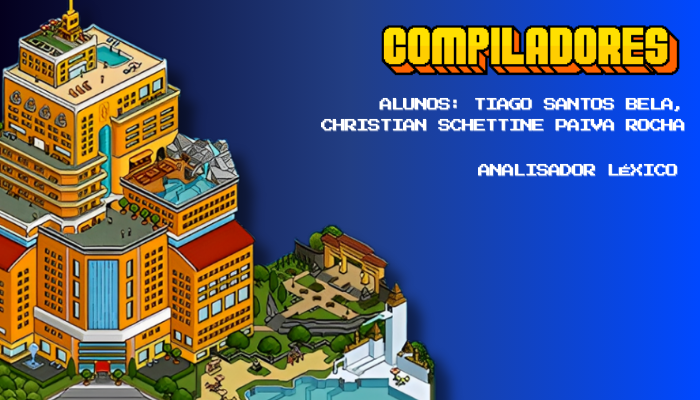
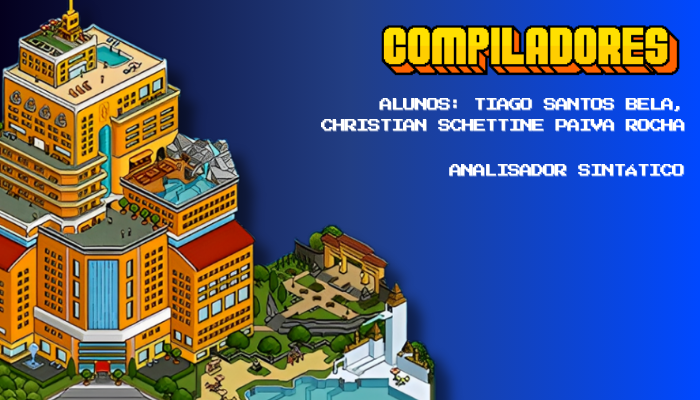
novas mudanças no código fonte do compilador sintático

Changed region(s): [[0.63, 0.39, 0.99, 0.45], [0.63, 0.3, 0.69, 0.33]]

diff --git a/analisador-sintatico/model/Analise.java b/analisador-sintatico/model/Analise.java
@@ -1,30 +1,34 @@
 /* ***************************************************************
 * Autor............: TIAGO SANTOS BELA E CHRISTIAN SCHETTINE PAIVA ROCHA
 * Matricula........: 202220722
-* Inicio...........: 27.08.2025
-* Ultima alteracao.: 18.09.2025
+* Inicio...........: 12.11.2025
+* Ultima alteracao.: xx.xx.2025
 * Nome.............: Analise
-* Funcao...........: possui o aparato nececessário para retornar os tokens
-*  observados na fase de análise léxica
+* Funcao...........: possui o aparato nececessário para receber os tokens
+*   classificados na fase léxica da compilação e analisar se estão arranjados
+*   seguindo os critérios estabelecidos pela análise sintática
 *************************************************************** */
 
 package model;
 
 import java.util.List;
 import util.AnalisadorLexico;
+import util.AnalisadorSintatico;
 
 public class Analise {
   private AnalisadorLexico analisadorLexico;
+  private AnalisadorSintatico analisadorSintatico;
 
   public Analise(String conteudo) {
     analisadorLexico = new AnalisadorLexico(conteudo);
+    analisadorSintatico = new AnalisadorSintatico();  
   }
 
   /*
    * ***************************************************************
    * Metodo: getLexamas
    * Funcao: listar todos os lexemas com seus devidos tokens observados
-   *   na fase da análise léxica
+   * na fase da análise léxica
    * Parametros: vazio
    * Retorno: String
    */
@@ -35,9 +39,11 @@ public class Analise {
     // analisa o maior token encontrado, para ajuste da tabela final
     String maiorLexema = maiorLexema(tokens);
 
-    // laço que adiciona os tokens em uma lista de toksn analisados com o lexema e o seu devido tipo
+    // laço que adiciona os tokens em uma lista de toksn analisados com o lexema e o
+    // seu devido tipo
     for (Token token : tokens) {
-      listaLexemas.append(String.format("%-" + this.calcularEspaco(maiorLexema, token) + "s %s%n", token.getLexema(), token.getTipo()));
+      listaLexemas.append(
+          String.format("%-" + this.calcularEspaco(maiorLexema, token) + "s %s%n", token.getLexema(), token.getTipo()));
     }
 
     return listaLexemas.toString();
@@ -72,12 +78,12 @@ public class Analise {
    * ***************************************************************
    * Metodo: calcularEspaco
    * Funcao: calcula a distancia do token em questão para o maior token
-   *   da lista de tokens gerados em relação a tamanho, isso é para a tabela
-   *   final
+   * da lista de tokens gerados em relação a tamanho, isso é para a tabela
+   * final
    * Parametros: vazio
    * Retorno: int
    */
-  private int calcularEspaco(String maiorLexema, Token token){
+  private int calcularEspaco(String maiorLexema, Token token) {
     int espacos = maiorLexema.length() - token.getLexema().length();
     return espacos + 20;
   }

diff --git a/analisador-sintatico/util/TipoErro.java b/analisador-sintatico/util/TipoErro.java
@@ -1,18 +1,45 @@
 /* ***************************************************************
 * Autor............: TIAGO SANTOS BELA E CHRISTIAN SCHETTINE PAIVA ROCHA
 * Matricula........: 202220722
-* Inicio...........: 27.08.2025
-* Ultima alteracao.: 18.09.2025
+* Inicio...........: 12.11.2025
+* Ultima alteracao.: xx.xx.2025
 * Nome.............: TipoErro
 * Funcao...........: possuir todos os possíveis erros da linguagem
-*   mini-pascal
+*   Sigma
 *************************************************************** */
 
 package util;
 
 public enum TipoErro {
+  // erros léxicos
   CARACTERE_INVALIDO,
   STRING_NAO_FECHADA,
   COMENTARIO_NAO_FECHADO,
-  NUMERO_MAL_FORMADO
+  NUMERO_MAL_FORMADO,
+
+  // Estrutura do programa
+  PROGRAMA_NAO_INICIADO_CORRETAMENTE,
+  PONTO_E_VIRGULA_APOS_IDENTIFICADOR_AUSENTE,
+  BEGIN_NAO_ENCONTRADO,
+  END_NAO_ENCONTRADO,
+  PONTO_FINAL_AUSENTE,
+
+  // Declarações
+  DOIS_PONTOS_AUSENTE,
+  PONTO_E_VIRGULA_APOS_TIPO_AUSENTE,
+  IDENTIFICADOR_ESPERADO,
+  IDENTIFICADOR_APOS_VIRGULA_AUSENTE,
+  TIPO_INVALIDO,
+
+  // Expressões e comandos
+  ATRIBUICAO_INVALIDA,
+  COMANDO_INVALIDO,
+  EXPRESSAO_ESPERADA,
+
+  // Estruturas de controle
+  IF_ESPERADO,
+  THEN_ESPERADO,
+  OPERADOR_RELACIONAL_ESPERADO,
+  WHILE_ESPERADO,
+  DO_ESPERADO
 }

diff --git a/analisador-sintatico/controller/TelaInicialController.java b/analisador-sintatico/controller/TelaInicialController.java
@@ -1,7 +1,7 @@
 /* ***************************************************************
-* Autor............: Tiago Santos Bela
+* Autor............: TIAGO SANTOS BELA E CHRISTIAN SCHETTINE PAIVA ROCHA
 * Matricula........: 202220722
-* Inicio...........: 27.08.2025
+* Inicio...........: 12.11.2025
 * Ultima alteracao.: xx.xx.2025
 * Nome.............: tela inicial controller
 * Funcao...........: Controla os elementos gráficos do JavaFX da 
@@ -79,7 +79,7 @@ public class TelaInicialController {
 
     // cria o novo palco da aplicação
     Stage palcoPrincipal = new Stage();
-    palcoPrincipal.setTitle("Trabalho 01 - Analisador Léxico");
+    palcoPrincipal.setTitle("Trabalho 02 - Analisador Sintático");
     palcoPrincipal.setResizable(false);
     palcoPrincipal.setScene(new Scene(raiz, 900, 650));
     palcoPrincipal.show();

diff --git a/analisador-sintatico/Principal.java b/analisador-sintatico/Principal.java
@@ -1,11 +1,11 @@
 /* ***************************************************************
 * Autor............: TIAGO SANTOS BELA E CHRISTIAN SCHETTINE PAIVA ROCHA
 * Matricula........: 202220722
-* Inicio...........: 27.08.2025
-* Ultima alteracao.: 18.09.2025
-* Nome.............: Analisador Léxico
+* Inicio...........: 12.11.2025
+* Ultima alteracao.: xx.xx.2025
+* Nome.............: Analisador Sintático
 * Funcao...........: Produzir um analisador sintático para a linguagem
-*   de programação sigma.
+*   de programação Sigma.
 *************************************************************** */
 
 import controller.TelaInicialController;

diff --git a/analisador-sintatico/util/TipoToken.java b/analisador-sintatico/util/TipoToken.java
@@ -1,11 +1,11 @@
 /* ***************************************************************
 * Autor............: TIAGO SANTOS BELA E CHRISTIAN SCHETTINE PAIVA ROCHA
 * Matricula........: 202220722
-* Inicio...........: 27.08.2025
-* Ultima alteracao.: 18.09.2025
+* Inicio...........: 12.11.2025
+* Ultima alteracao.: xx.xx.2025
 * Nome.............: TipoToken
 * Funcao...........: possuir todos os possíveis tokens da linguagem
-*   mini-pascal
+*   Sigma
 *************************************************************** */
 
 package util;

diff --git a/analisador-sintatico/util/AnalisadorLexico.java b/analisador-sintatico/util/AnalisadorLexico.java
@@ -1,9 +1,9 @@
 /* ***************************************************************
 * Autor............: Tiago Santos Bela
 * Matricula........: 202220722
-* Inicio...........: 27.08.2025
-* Ultima alteracao.: 18.09.2025
-* Nome.............: tela principal controller
+* Inicio...........: 12.11.2025
+* Ultima alteracao.: xx.xx.2025
+* Nome.............: analisador léxico
 * Funcao...........: Controla a lóxica central do analisador léxico
 *************************************************************** */
 

diff --git a/analisador-sintatico/util/Arquivo.java b/analisador-sintatico/util/Arquivo.java
@@ -1,8 +1,8 @@
 /* ***************************************************************
 * Autor............: TIAGO SANTOS BELA E CHRISTIAN SCHETTINE PAIVA ROCHA
 * Matricula........: 202220722
-* Inicio...........: 27.08.2025
-* Ultima alteracao.: 18.09.2025
+* Inicio...........: 12.11.2025
+* Ultima alteracao.: xx.xx.2025
 * Nome.............: Arquivo
 * Funcao...........: possui todos os métodos necessários para entrada
 *   e tratamento dos textos em .txt que serão analisados pelo analisador

diff --git a/analisador-sintatico/util/AnalisadorSintatico.java b/analisador-sintatico/util/AnalisadorSintatico.java
@@ -1,0 +1,14 @@
+/* ***************************************************************
+* Autor............: Tiago Santos Bela
+* Matricula........: 202220722
+* Inicio...........: 12.11.2025
+* Ultima alteracao.: xx.xx.2025
+* Nome.............: analisador sintático
+* Funcao...........: Controla a lóxica central do analisador sintático
+*************************************************************** */
+
+package util;
+
+public class AnalisadorSintatico {
+  
+}

diff --git a/analisador-sintatico/model/Token.java b/analisador-sintatico/model/Token.java
@@ -1,8 +1,8 @@
 /* ***************************************************************
 * Autor............: TIAGO SANTOS BELA E CHRISTIAN SCHETTINE PAIVA ROCHA
 * Matricula........: 202220722
-* Inicio...........: 27.08.2025
-* Ultima alteracao.: 18.09.2025
+* Inicio...........: 12.11.2025
+* Ultima alteracao.: xx.xx.2025
 * Nome.............: Token
 * Funcao...........: possui todos os métodos necessários para lidar
 *   com os tokens

diff --git a/analisador-sintatico/model/Erro.java b/analisador-sintatico/model/Erro.java
@@ -1,8 +1,8 @@
 /* ***************************************************************
 * Autor............: TIAGO SANTOS BELA E CHRISTIAN SCHETTINE PAIVA ROCHA
 * Matricula........: 202220722
-* Inicio...........: 27.08.2025
-* Ultima alteracao.: 18.09.2025
+* Inicio...........: 12.11.2025
+* Ultima alteracao.: xx.xx.2025
 * Nome.............: Erro
 * Funcao...........: possui todos os métodos necessários para lidar
 *   com os erros

diff --git a/analisador-sintatico/controller/TelaDashboardController.java b/analisador-sintatico/controller/TelaDashboardController.java
@@ -1,8 +1,8 @@
 /* ***************************************************************
 * Autor............: Tiago Santos Bela
 * Matricula........: 202220722
-* Inicio...........: 27.08.2025
-* Ultima alteracao.: 18.09.2025
+* Inicio...........: 12.11.2025
+* Ultima alteracao.: xx.xx.2025
 * Nome.............: telaDashboardController
 * Funcao...........: Controla os elementos gráficos do JavaFX da 
 *   tela de dashboard
